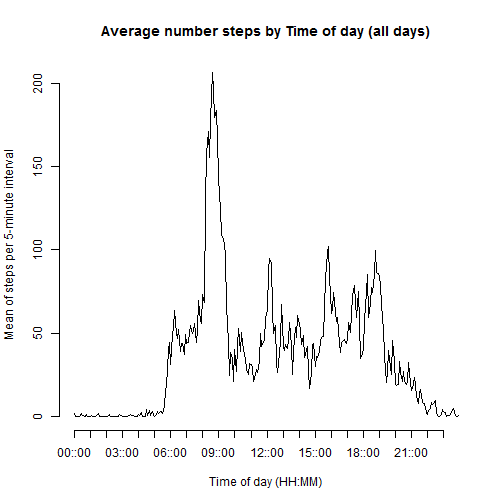
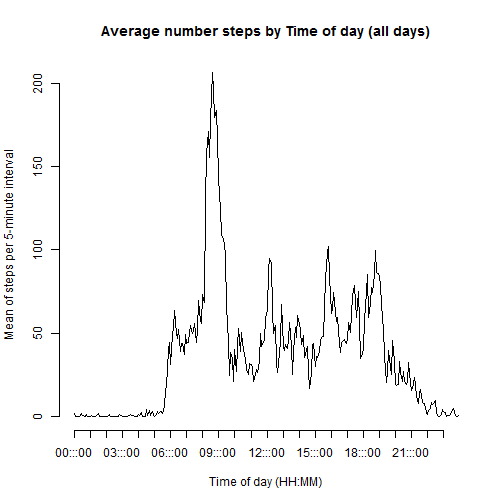
Removed pander requirement

Changed region(s): [[0.0893, 0.8631, 0.5655, 0.9226], [0.6845, 0.8631, 0.8631, 0.9226], [0.5952, 0.8929, 0.6548, 0.9226]]

diff --git a/PA1_template.html b/PA1_template.html
@@ -280,24 +280,16 @@ rug(plot1.data$steps)
 
[1 lines of base64/hex data omitted]
 
-<p><strong>Calculate and report mean and median number of steps per day</strong></p>
+<p><strong>Calculate and report mean and median number of steps per day:</strong></p>
 
-<pre><code class="r">df &lt;- as.data.frame(list(as.character(mean(plot1.data$steps)), median(plot1.data$steps)))
+<pre><code class="r">df &lt;- as.data.frame(list(mean(plot1.data$steps), median(plot1.data$steps)))
 names(df) &lt;- c(&quot;Mean&quot;, &quot;Median&quot;)
-require(pander)
-pander(df, caption=&quot;Calculated mean and median:&quot;) ## Output in a table format
+df
 </code></pre>
 
-<hr/>
-
-<pre><code>  Mean        Median 
+<pre><code>##       Mean Median
+## 1 10766.19  10765
 </code></pre>
-
-<hr/>
-
-<h2>10766.1886792453  10765  </h2>
-
-<p>Table: Calculated mean and median:</p>
 
 <h2>What is the average daily activity pattern?</h2>
 
@@ -325,7 +317,7 @@ axis(side=1, at=lbl, labels=lbl)
 axis(side=2)
 </code></pre>
 
[2 lines of base64/hex data omitted]
 
 <p><strong>Which 5-minute interval, on average across all the days in the dataset, contains the maximum number of steps?</strong><br/>
 From <code>plot2.data</code>, which rows are the ones with the highest value in column 2 (mean.of.steps):</p>
@@ -334,7 +326,7 @@ From <code>plot2.data</code>, which rows are the ones with the highest value in 
 </code></pre>
 
 <pre><code>##     interval mean.of.steps
-## 104   08::35      206.1698
+## 104  08:::35      206.1698
 </code></pre>
 
 <p>It is interval 104, original interval label 835 (i.e. 08:35-08.40), where the mean is 206.1698.</p>
@@ -357,12 +349,12 @@ From <code>plot2.data</code>, which rows are the ones with the highest value in 
 </code></pre>
 
 <pre><code>##      steps             date               interval      dayofweek        
-##  Min.   :  0.00   Min.   :2012-10-01   00::00 :   61   Length:17568      
-##  1st Qu.:  0.00   1st Qu.:2012-10-16   00::05 :   61   Class :character  
-##  Median :  0.00   Median :2012-10-31   00::10 :   61   Mode  :character  
-##  Mean   : 37.38   Mean   :2012-10-31   00::15 :   61                     
-##  3rd Qu.: 12.00   3rd Qu.:2012-11-15   00::20 :   61                     
-##  Max.   :806.00   Max.   :2012-11-30   00::25 :   61                     
+##  Min.   :  0.00   Min.   :2012-10-01   00:::00:   61   Length:17568      
+##  1st Qu.:  0.00   1st Qu.:2012-10-16   00:::05:   61   Class :character  
+##  Median :  0.00   Median :2012-10-31   00:::10:   61   Mode  :character  
+##  Mean   : 37.38   Mean   :2012-10-31   00:::15:   61                     
+##  3rd Qu.: 12.00   3rd Qu.:2012-11-15   00:::20:   61                     
+##  Max.   :806.00   Max.   :2012-11-30   00:::25:   61                     
 ##  NA&#39;s   :2304                          (Other):17202
 </code></pre>
 
@@ -396,12 +388,12 @@ summary(activity.imputed)
 </code></pre>
 
 <pre><code>##     interval      dayofweek             steps             date           
-##  00::00 :   61   Length:17568       Min.   :  0.00   Min.   :2012-10-01  
-##  00::05 :   61   Class :character   1st Qu.:  0.00   1st Qu.:2012-10-16  
-##  00::10 :   61   Mode  :character   Median :  0.00   Median :2012-10-31  
-##  00::15 :   61                      Mean   : 37.57   Mean   :2012-10-31  
-##  00::20 :   61                      3rd Qu.: 19.04   3rd Qu.:2012-11-15  
-##  00::25 :   61                      Max.   :806.00   Max.   :2012-11-30  
+##  00:::00:   61   Length:17568       Min.   :  0.00   Min.   :2012-10-01  
+##  00:::05:   61   Class :character   1st Qu.:  0.00   1st Qu.:2012-10-16  
+##  00:::10:   61   Mode  :character   Median :  0.00   Median :2012-10-31  
+##  00:::15:   61                      Mean   : 37.57   Mean   :2012-10-31  
+##  00:::20:   61                      3rd Qu.: 19.04   3rd Qu.:2012-11-15  
+##  00:::25:   61                      Max.   :806.00   Max.   :2012-11-30  
 ##  (Other):17202                                                           
 ##  mean.of.steps      steps.old     
 ##  Min.   :  0.00   Min.   :  0.00  

diff --git a/PA1_template.md b/PA1_template.md
@@ -8,7 +8,6 @@ output:
 ## Downloading the data
 Activity data was obtained from the URL  <https://d396qusza40orc.cloudfront.net/repdata%2Fdata%2Factivity.zip>, stored and unzipped in a folder called 'data' in my R Studio work directory like this:
 
-
 ```r
 if (!file.exists("./data")) { # Create a data folder if needed
         dir.create("./data") 
@@ -92,24 +91,18 @@ rug(plot1.data$steps)
 
 ![plot of chunk unnamed-chunk-4](figure/unnamed-chunk-4-1.png) 
 
-**Calculate and report mean and median number of steps per day**
-
+**Calculate and report mean and median number of steps per day:**
 
 ```r
-df <- as.data.frame(list(as.character(mean(plot1.data$steps)), median(plot1.data$steps)))
+df <- as.data.frame(list(mean(plot1.data$steps), median(plot1.data$steps)))
 names(df) <- c("Mean", "Median")
-require(pander)
-pander(df, caption="Calculated mean and median:") ## Output in a table format
+df
 ```
 
-
--------------------------
-      Mean        Median 
----------------- --------
-10766.1886792453  10765  
--------------------------
-
-Table: Calculated mean and median:
+```
+##       Mean Median
+## 1 10766.19  10765
+```
 
 ## What is the average daily activity pattern?
 
@@ -150,7 +143,7 @@ plot2.data[which(plot2.data[, 2] == max(plot2.data[, 2])), ]
 
 ```
 ##     interval mean.of.steps
-## 104   08::35      206.1698
+## 104  08:::35      206.1698
 ```
 It is interval 104, original interval label 835 (i.e. 08:35-08.40), where the mean is 206.1698.
 
@@ -175,12 +168,12 @@ summary(activity)
 
 ```
 ##      steps             date               interval      dayofweek        
-##  Min.   :  0.00   Min.   :2012-10-01   00::00 :   61   Length:17568      
-##  1st Qu.:  0.00   1st Qu.:2012-10-16   00::05 :   61   Class :character  
-##  Median :  0.00   Median :2012-10-31   00::10 :   61   Mode  :character  
-##  Mean   : 37.38   Mean   :2012-10-31   00::15 :   61                     
-##  3rd Qu.: 12.00   3rd Qu.:2012-11-15   00::20 :   61                     
-##  Max.   :806.00   Max.   :2012-11-30   00::25 :   61                     
+##  Min.   :  0.00   Min.   :2012-10-01   00:::00:   61   Length:17568      
+##  1st Qu.:  0.00   1st Qu.:2012-10-16   00:::05:   61   Class :character  
+##  Median :  0.00   Median :2012-10-31   00:::10:   61   Mode  :character  
+##  Mean   : 37.38   Mean   :2012-10-31   00:::15:   61                     
+##  3rd Qu.: 12.00   3rd Qu.:2012-11-15   00:::20:   61                     
+##  Max.   :806.00   Max.   :2012-11-30   00:::25:   61                     
 ##  NA's   :2304                          (Other):17202
 ```
 It is only `steps` which has these NA values.
@@ -215,12 +208,12 @@ summary(activity.imputed)
 
 ```
 ##     interval      dayofweek             steps             date           
-##  00::00 :   61   Length:17568       Min.   :  0.00   Min.   :2012-10-01  
-##  00::05 :   61   Class :character   1st Qu.:  0.00   1st Qu.:2012-10-16  
-##  00::10 :   61   Mode  :character   Median :  0.00   Median :2012-10-31  
-##  00::15 :   61                      Mean   : 37.57   Mean   :2012-10-31  
-##  00::20 :   61                      3rd Qu.: 19.04   3rd Qu.:2012-11-15  
-##  00::25 :   61                      Max.   :806.00   Max.   :2012-11-30  
+##  00:::00:   61   Length:17568       Min.   :  0.00   Min.   :2012-10-01  
+##  00:::05:   61   Class :character   1st Qu.:  0.00   1st Qu.:2012-10-16  
+##  00:::10:   61   Mode  :character   Median :  0.00   Median :2012-10-31  
+##  00:::15:   61                      Mean   : 37.57   Mean   :2012-10-31  
+##  00:::20:   61                      3rd Qu.: 19.04   3rd Qu.:2012-11-15  
+##  00:::25:   61                      Max.   :806.00   Max.   :2012-11-30  
 ##  (Other):17202                                                           
 ##  mean.of.steps      steps.old     
 ##  Min.   :  0.00   Min.   :  0.00  
